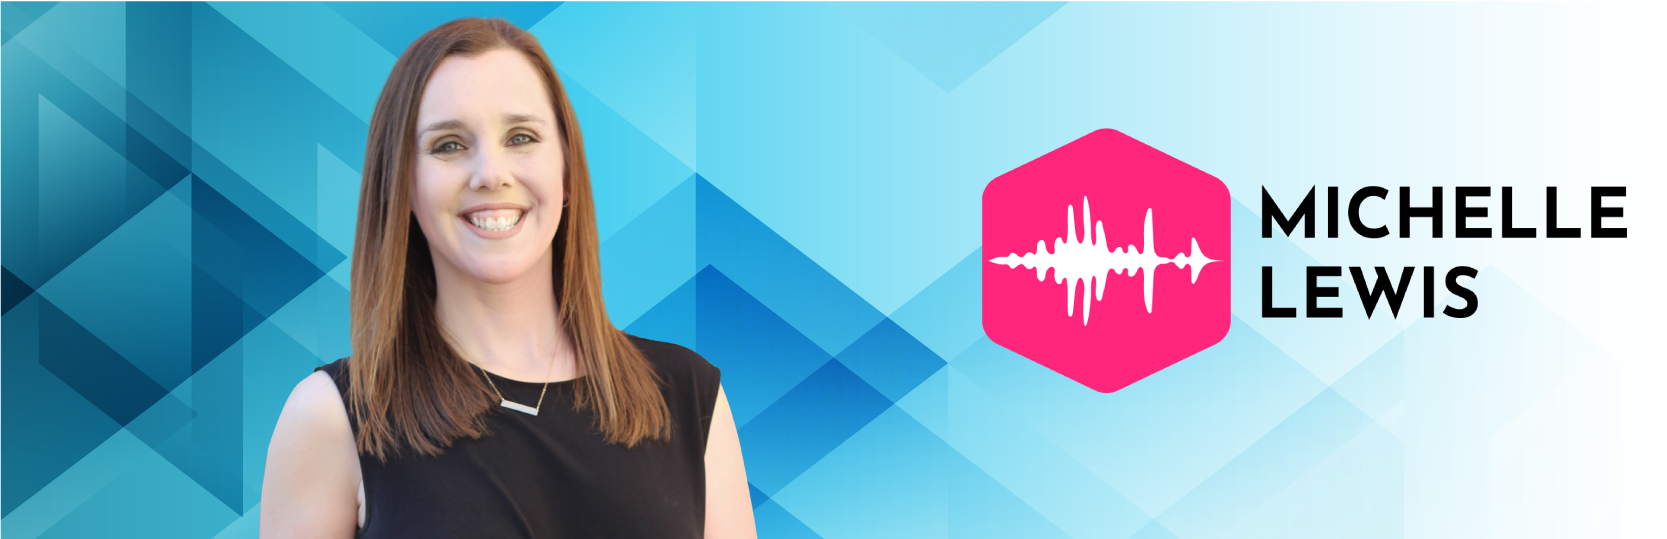
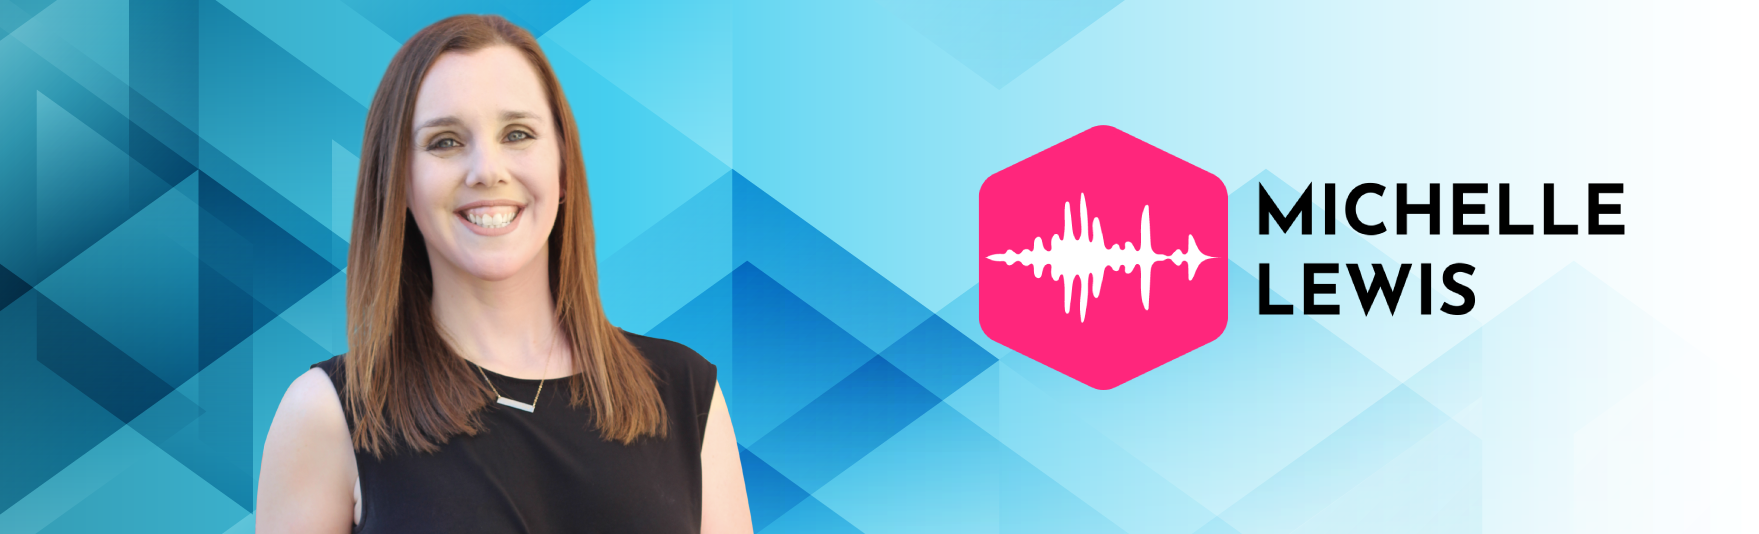
replacing header image on homepage

diff --git a/home.html b/home.html
@@ -261,11 +261,7 @@
       </div>
     </div>
 
-    <img
-      src="./michelle_header_new_logo.png"
-      alt=""
-      style="margin:auto;width:100%;"
-    />
+    <img src="./michelle_header.png" alt="" style="margin:auto;width:100%;" />
 
     <div class="box effect1">
       <!-- start feedwind code -->
